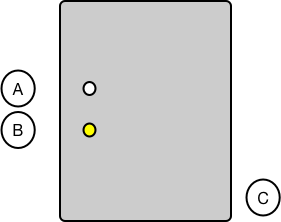
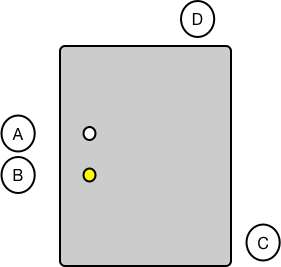
- added Ethernet quick start option

diff --git a/README.md b/README.md
@@ -13,6 +13,8 @@ This project contains a user guide for the Avimesa Gateway for Raspberry Pi.
     - [1.1 Summary](#1.1-summary)
     - [1.2 Requirements](#1.2-requirements)
 - [2. Quick Start](#2.-quick-start)
+    - [2.1 Quick Start (Wi-Fi)](#2.1-quick-start-wifi)
+    - [2.2 Quick Start (Ethernet)](#2.2-quick-start-eth)
 - [3. Power Supply](#3.-power-supply)
 - [4. Gateway Modes](#4.-gw-modes)
     - [4.1 Unconfigured Network](#4.1-gw-modes-unconfigured)
@@ -21,13 +23,16 @@ This project contains a user guide for the Avimesa Gateway for Raspberry Pi.
 - [5. Gateway Setup](#5.-gw-setup)
     - [5.1 How to Enter Gateway Setup Mode](#5.1-gw-setup-how-to-enter)
     - [5.2 Using the Gateway Setup Application](#5.2-gw-setup-app)
-    
+- [6. Gateway Software Updates](#6.-gw-updates)    
     
     
 
 [Top](#toc)<br>
 <a id="1.-overview"></a>
 ## 1. Overview
+
+<a id="1.1-summary"></a>
+## 1.1 Summary
 
 The Avimesa Gateway for Raspberry Pi is used to facilitate network communications between Avimesa devices and the Avimesa Device Cloud.
 
@@ -43,32 +48,52 @@ Figure 1 calls out the main components that are used in this guide:
 &nbsp;&nbsp;&nbsp; A. Gateway Status LED<br>
 &nbsp;&nbsp;&nbsp; B. Gateway Setup Button<br>
 &nbsp;&nbsp;&nbsp; C. Power Connector<br>
+&nbsp;&nbsp;&nbsp; D. Ethernet Port<br>
 
 ![ug-gw-callouts](images/ug-gw-callouts.png)
 <br>*Figure 1*
 
-<a id="1.1-requirements"></a>
+<a id="1.2-requirements"></a>
 ## 1.2 Requirements
+
+For Wi-Fi use:
 
 1. A computer with Wi-Fi
 2. The Avimesa Gateway for Raspberry Pi and power supply
-3. A network with an internet connection
+3. A wireless network with an internet connection
+
+For Ethernet use:
+
+1. Ethernet cable and network with an internet connection
+2. The Avimesa Gateway for Raspberry Pi and power supply
+
 
 
 [Top](#toc)<br>
 <a id="2.-quick-start"></a>
-## 2. Quick Start (Wi-Fi)
+## 2. Quick Start
+
+
+<a id="2.1-quick-start-wifi"></a>
+## 2.1 Quick Start (Wi-Fi)
 
 For the first time setup, do the following:
 
 1. Attach the power supply to the Gateway (Figure 1-C)
-2. The Gateway will boot up and the `Gateway Status LED` (Figure 1-A) will flash green as it's in the `Unconfigured` state.
-3. Press and hold the `Gateway Setup Button` (Figure 1-B) for 10 seconds until the `Gateway Status LED` (Figure 1-A) turns red.
-4. Using a computer with Wi-Fi, connect to the "Avimesa-Gateway" Access Point, no password is required.
-5. Enter the SSID and password for the network that you want the Gateway to connect to.
-6. Press "Save" to reset the Gateway.  It will automatically connect to the configured network.
+2. The Gateway will boot up and the `Gateway Status LED` (Figure 1-A) will **flash green** as it's in the `Unconfigured` state.
+3. **Press and hold** the `Gateway Setup Button` (Figure 1-B) for 10 seconds until the `Gateway Status LED` (Figure 1-A) **turns solid red**.
+4. Using a computer with Wi-Fi, connect to the **"Avimesa-Gateway"** Access Point, **no password** is required.
+5. Using a browser, enter the address **192.168.0.1** in the address bar and hit <ENTER>
+6. Enter the SSID and password for the network that you want the Gateway to connect to.
+7. Press "Save" to reset the Gateway.  It will automatically connect to the configured network and the Gateway Status LED` (Figure 1-A) will turn **solid green**
 
+<a id="2.2-quick-start-eth"></a>
+## 2.1 Quick Start (Ethernet)
 
+1. Attach an ethernet cable to the ethernet port (Figure 1-D)
+2. Attach the power supply to the Gateway (Figure 1-C)
+
+When using ethernet, the `Gateway Status LED` (Figure 1-A) and the `Gateay Setup Button` (Figure 1-B) are **not used**.
 
 
 [Top](#toc)<br>
@@ -81,7 +106,7 @@ The Avimesa Gateway for Raspberry Pi kit comes with a power supply that is rated
 
 [Top](#toc)<br>
 <a id="4.-gw-modes"></a>
-## 4. Gateway Modes
+## 4. Gateway Modes (Wi-Fi)
 
 The Gateway can be in three modes that are directly related to it's Wi-Fi network status. 
 
@@ -104,7 +129,7 @@ The `Gateway Status LED` (Figure 1-A) will be **solid red** when in this state.
 
 The Gateway Router Daemon will not run when in the state as it requires a network connection.  Thus, any Avimesa devices utilizing this gateway for network connectivity will fail to synchronize with the Avimesa Device Cloud.
 
-<a id="4.3-gw-modes-gw-setup"></a>
+<a id="4.3-gw-modes-configured"></a>
 ## 4.3 Configured
 
 When in the `Cconfigured` mode, the Gateway is setup and has connected to a configured Access Point. 
@@ -150,6 +175,14 @@ The Gateway will reboot and attempt to connect to the network that was configure
 If the `Gateway Status LED` (Figure 1-A) turns to **solid green** after the reboot, the connection was successful.
 
 If the `Gateway Status LED` (Figure 1-A) turns to **blinking green** after the reboot, the connection was unsuccessful and the process needs to be repeated starting at step 1.  Ensure the correct password was used. 
+
+
+
+
+[Top](#toc)<br>
+<a id="6.-gw-updates"></a>
+## 6. Gateway Software Updates
+The Avimesa Gateway for Raspberry Pi features an automatic update mechanism that will update the gateway as necessary.  When this occurs, the gateway may become inactive for a few minutes until the update completes.
 
 
 
